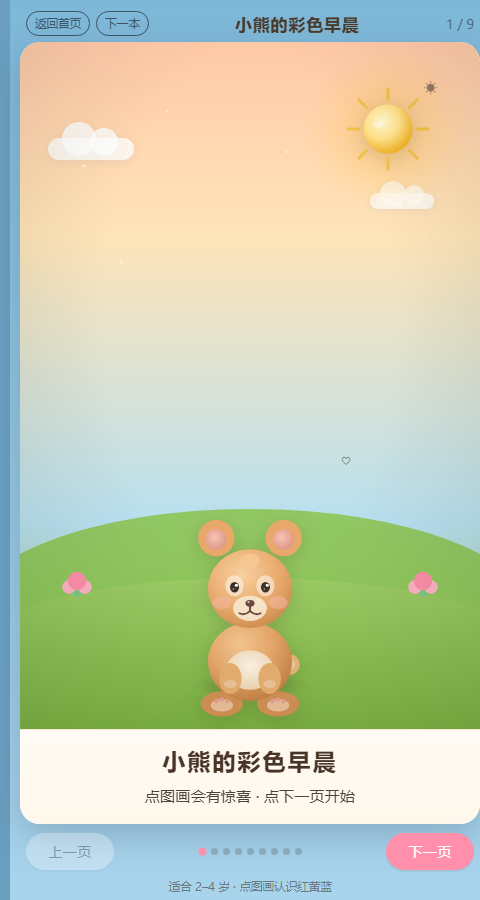
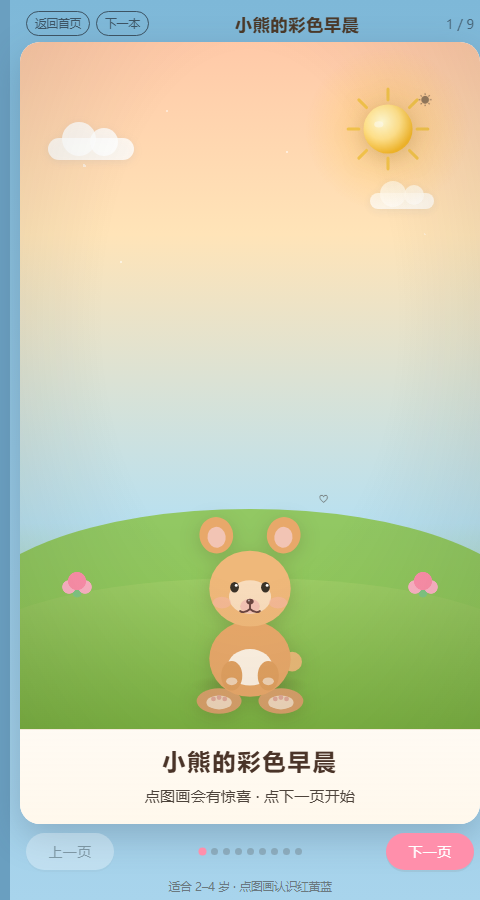
修正小熊绘本图文不符：颜料罐叠放、太阳预先变黄、苹果不在树上

Changed region(s): [[0.4062, 0.56, 0.625, 0.8089], [0.875, 0.0933, 0.9062, 0.1244]]

diff --git a/color_bear/styles.css b/color_bear/styles.css
@@ -402,14 +402,19 @@ button {
   height: min(42vw, 168px);
 }
 
+/* 小熊在左侧，颜料罐摆在右侧草地上，不挡脸 */
 .pot-row {
   position: absolute;
-  bottom: 8%;
-  left: 50%;
-  transform: translateX(-50%);
+  bottom: 5%;
+  right: 5%;
   display: flex;
-  gap: 14px;
+  gap: 10px;
   z-index: 6;
+}
+
+/* .art 自带 absolute，放进 flex 行要改回 relative，否则三罐叠在一起 */
+.pot-row .pot {
+  position: relative;
 }
 
 .pot {
@@ -435,9 +440,10 @@ button {
   transition: opacity 0.35s, transform 0.45s;
 }
 
-.apple-wrap.a1 { top: 22%; left: 22%; }
-.apple-wrap.a2 { top: 18%; left: 48%; }
-.apple-wrap.a3 { top: 28%; left: 68%; }
+/* 苹果按树冠坐标定位：树宽 W=min(48vw,190px)、高 H=min(55vw,220px)，水平居中、top 8% */
+.apple-wrap.a1 { top: calc(8% + min(21.5vw, 86px)); left: calc(50% - min(8vw, 32px) - min(6vw, 24px)); }
+.apple-wrap.a2 { top: calc(8% + min(11.3vw, 45px)); left: calc(50% + min(2.4vw, 10px) - min(6vw, 24px)); }
+.apple-wrap.a3 { top: calc(8% + min(27vw, 108px)); left: calc(50% + min(11.2vw, 44px) - min(6vw, 24px)); }
 
 .apple-wrap.gone {
   opacity: 0;
@@ -459,9 +465,14 @@ button {
   width: min(28vw, 110px);
   height: min(16vw, 64px);
   bottom: 10%;
-  right: 10%;
-  z-index: 4;
+  left: 10%;
+  z-index: 6;
   cursor: pointer;
+}
+
+/* 未上色的太阳是淡白色，点黄颜料后才变黄 */
+#sunTarget:not(.is-painted) .art-svg {
+  filter: grayscale(1) brightness(1.3) opacity(0.8);
 }
 
 .mix-drop {

diff --git a/color_bear/index.html b/color_bear/index.html
@@ -437,7 +437,7 @@
           </div>
         </div>
         <div class="caption">
-          <p>桌上摆着三罐颜料。<br />点颜料罐，气球就会换上颜色。</p>
+          <p>草地上摆着三罐颜料。<br />点颜料罐，气球就会换上颜色。</p>
         </div>
       </section>
 
@@ -446,7 +446,7 @@
         <div class="sky sky-morn">
           <div class="vignette"></div>
           <div class="cloud c2"></div>
-          <button type="button" class="art sun-wrap glow interact" data-interact="sun-paint" id="sunTarget" aria-label="点太阳上色">
+          <button type="button" class="art sun-wrap interact" data-interact="sun-paint" id="sunTarget" aria-label="点太阳上色">
             <svg class="art-svg" viewBox="0 0 120 120"><use href="#sym-sun"/></svg>
             <span class="tap-hint">☀</span>
           </button>

diff --git a/color_bear/app.js b/color_bear/app.js
@@ -214,7 +214,7 @@
         burstSparks(c.x, c.y, 14, ["#ffe08a", "#f0c14a", "#fff"]);
         bubble(c.x, c.y - 20, "黄色太阳");
         speak("黄色");
-        el.classList.add("glow");
+        el.classList.add("glow", "is-painted");
         break;
       }
 
